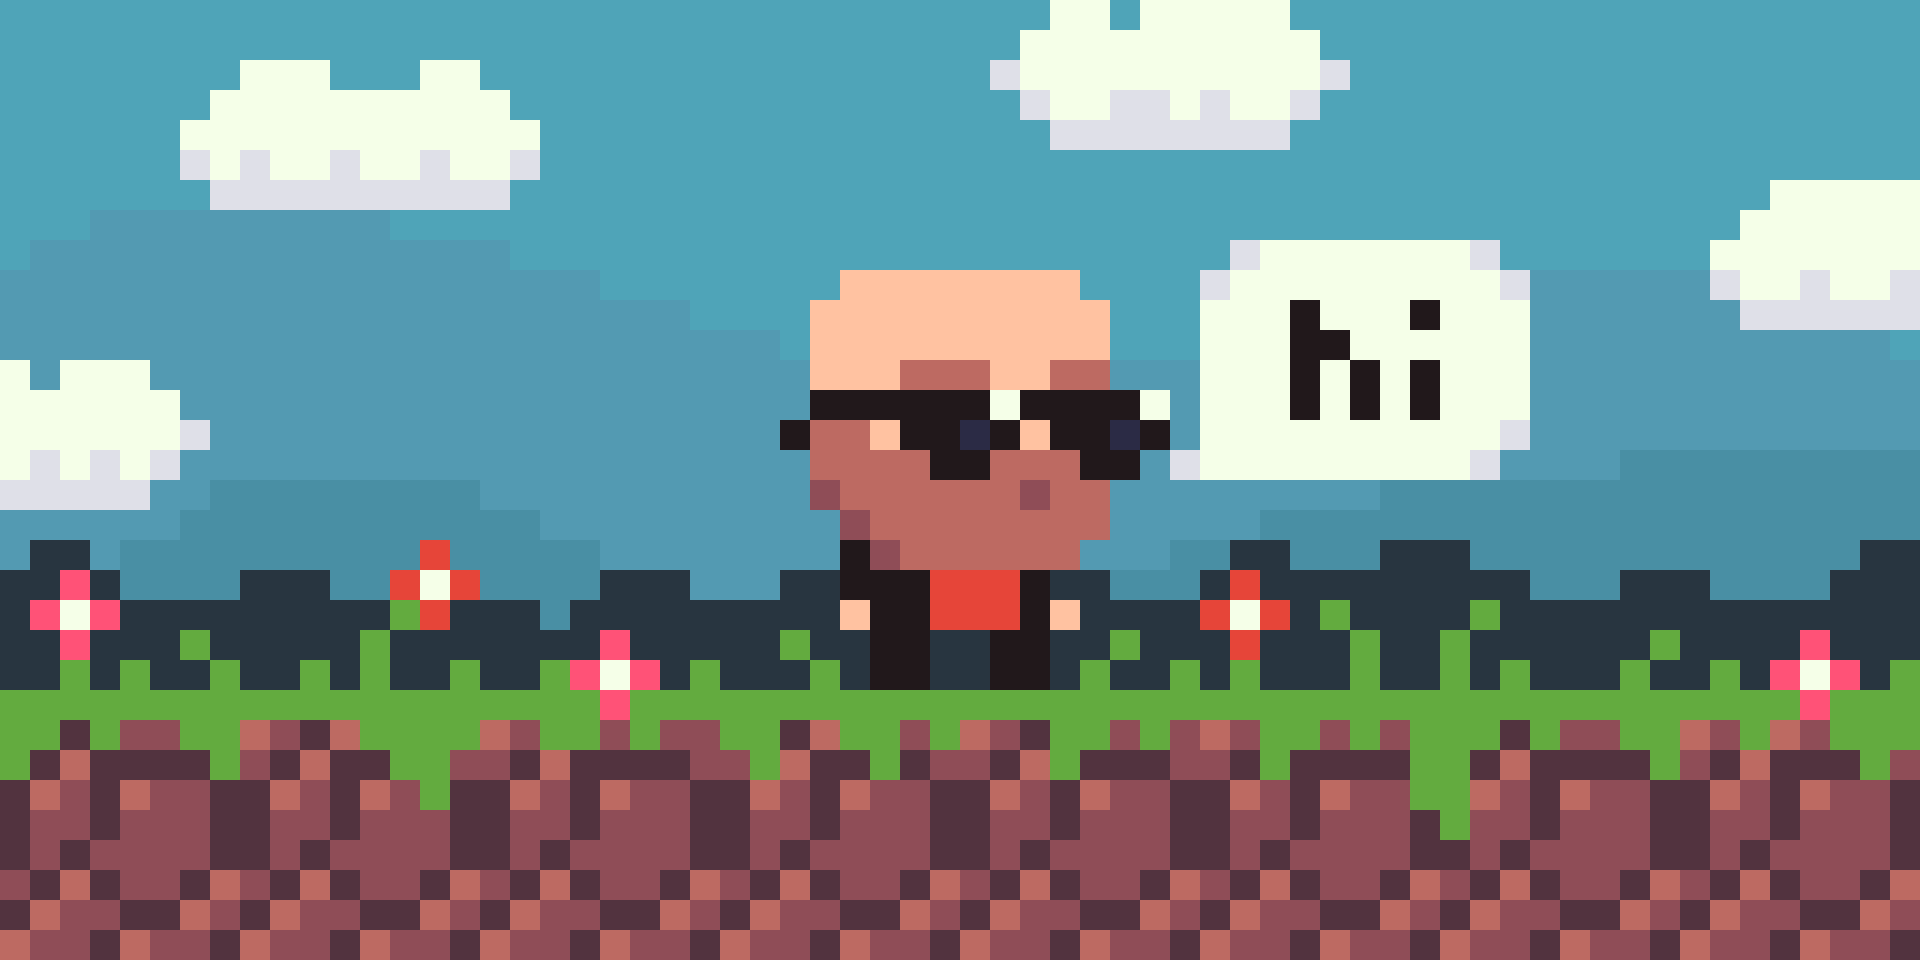
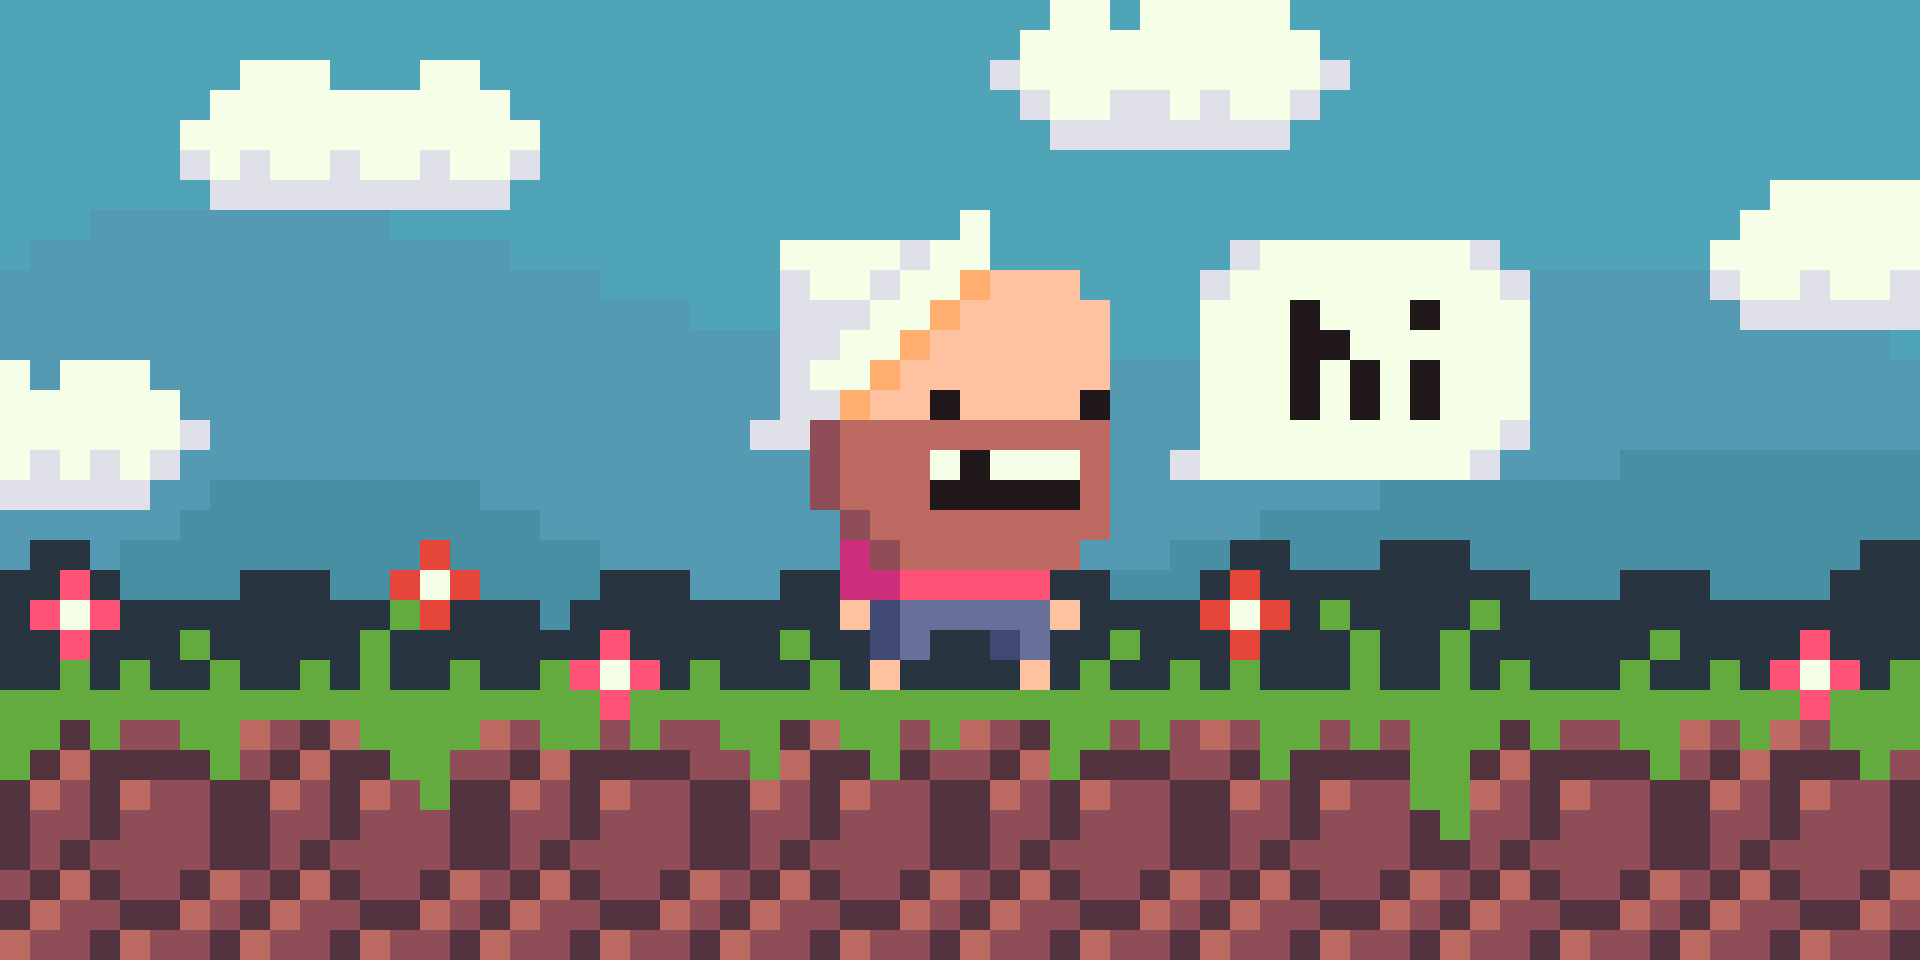
Improve jc images removing sunglasses

Changed region(s): [[0.375, 0.2188, 0.625, 0.5312], [0.4375, 0.5625, 0.5625, 0.7188]]

diff --git a/themes/elefantoj/assets/sass/style.sass b/themes/elefantoj/assets/sass/style.sass
@@ -64,6 +64,9 @@ $info-size: 0.85rem
   100%
     text-shadow: 0 0 1px $accent-color, 0 0 2px $secondary-color, 0 0 3px $accent-color
 
+html, body
+  overflow-x: hidden
+
 body
   background: $background
     attachment: fixed
@@ -73,6 +76,7 @@ body
     size: $font-size
     weight: 400
   margin: 0
+  position: relative
 
 
 img, iframe
@@ -357,6 +361,11 @@ ul
 
 h1 + :not(.info)
   margin-top: 1rem
+
+
+.navbar
+  .navbar-logo
+    border-radius: $border-radius
 
 
 @media (max-width: $page-width)
